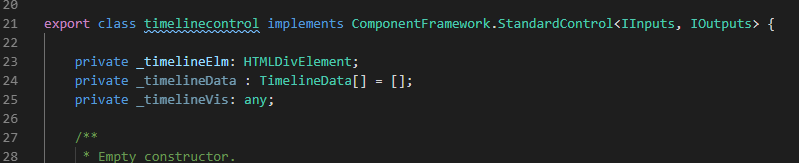
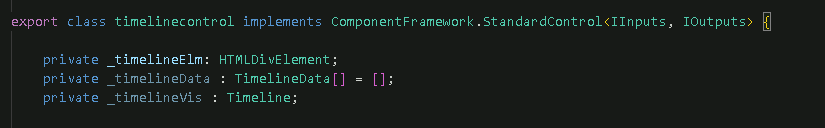
Fixes linting issue

diff --git a/Instructions/Labs/LAB[PL-400]_Lab07_PCF.md b/Instructions/Labs/LAB[PL-400]_Lab07_PCF.md
@@ -153,20 +153,7 @@ Complete source code files for this lab can be found in the  C:\Labfiles\L07\Res
      npm run build
      ```
 
-     > [!NOTE]
-     > if you experience an error, try to modify the .eslintrc.json file and change the rules as follows and re-run npm run build.
-
-     ``` JSON
-     "rules": {
-       "@typescript-eslint/no-unused-vars": "off",
-       "@typescript-eslint/no-var-requires": "off",
-       "@typescript-eslint/no-explicit-any": "off",
-       "no-unused-vars": "off",
-       "no-undef" : "off"
-     }
-     ```
-
-   - You should now be able to see the out folder. Expand the folder and review its content.
+   - You should now be able to see the **out** folder. Expand the folder and review its content.
 
      ![Out folder - screenshot](../images/L07/mod-02-pcf-1-13.png)
 
@@ -200,15 +187,15 @@ Complete source code files for this lab can be found in the  C:\Labfiles\L07\Res
 
 ### Task 1.3: Setup solution
 
+1. Launch the **Developer Command Promt**, if you do not have it open from the previous steps. 
+
 1. Create a new solution folder in the parent of the **src** folder **pcfTimelineControl**.
 
    - Change directory to the **pcfTimelineControl** folder.
 
      ```dos
-     cd ..
+     cd C:\LabFiles\L07\pcfTimelineControl
      ```
-
-   - You should now be in the **pcfTimelineControl** directory.
 
    - Create a new folder with the name **solution**.
 
@@ -260,7 +247,7 @@ Complete source code files for this lab can be found in the  C:\Labfiles\L07\Res
 
 1. Build the solution
 
-   - Make sure you are still in the pcfSolution folder.
+     Make sure you are still in the pcfSolution folder in the **Developer Command Prompt**.
 
    - Build the project by running the command below.
 
@@ -279,7 +266,7 @@ Complete source code files for this lab can be found in the  C:\Labfiles\L07\Res
 
 1. Change to the **src** folder.
 
-   - Run the following command in the Visual Studio Code Terminal window.
+   - Run the following command in the **Visual Studio Code Terminal** window.
 
      ```dos
      cd ..\src
@@ -303,7 +290,7 @@ Complete source code files for this lab can be found in the  C:\Labfiles\L07\Res
 
    - Open the **ControlManifest.Input.xml** file.
 
-   - Locate the **resources** sub element and uncomment the **css** tag, change the **Order** to **2**.
+   - Locate the **resources** sub element and uncomment the **css** tag, change the **order** attribute to **2**.
 
      ![Uncomment css - screenshot](../images/L07/mod-02-pcf-1-23.png)
 
@@ -353,7 +340,7 @@ Complete source code files for this lab can be found in the  C:\Labfiles\L07\Res
 
      ```typescript
      private _timelineElm: HTMLDivElement;
-     private _timelineVis : any;
+     private _timelineVis: Timeline;
      ```
 
      ![Add properties - screenshot](../images/L07/mod-02-pcf-1-27.png)
@@ -361,7 +348,7 @@ Complete source code files for this lab can be found in the  C:\Labfiles\L07\Res
    - Add the below constant after the import lines on the top.
 
      ```typescript
-     const vis = require('vis-timeline');
+     import { Timeline } from "vis-timeline/standalone";
      ```
 
      ![Add constant - screenshot](../images/L07/mod-02-pcf-1-28.png)
@@ -397,7 +384,7 @@ Complete source code files for this lab can be found in the  C:\Labfiles\L07\Res
          // Configuration for the Timeline
          const options = {};
          // Create a Timeline
-         const timeline = new vis.Timeline(this._timelineElm, items, options);
+         const timeline = new Timeline(this._timelineElm, items, options);
      }
      ```
 
